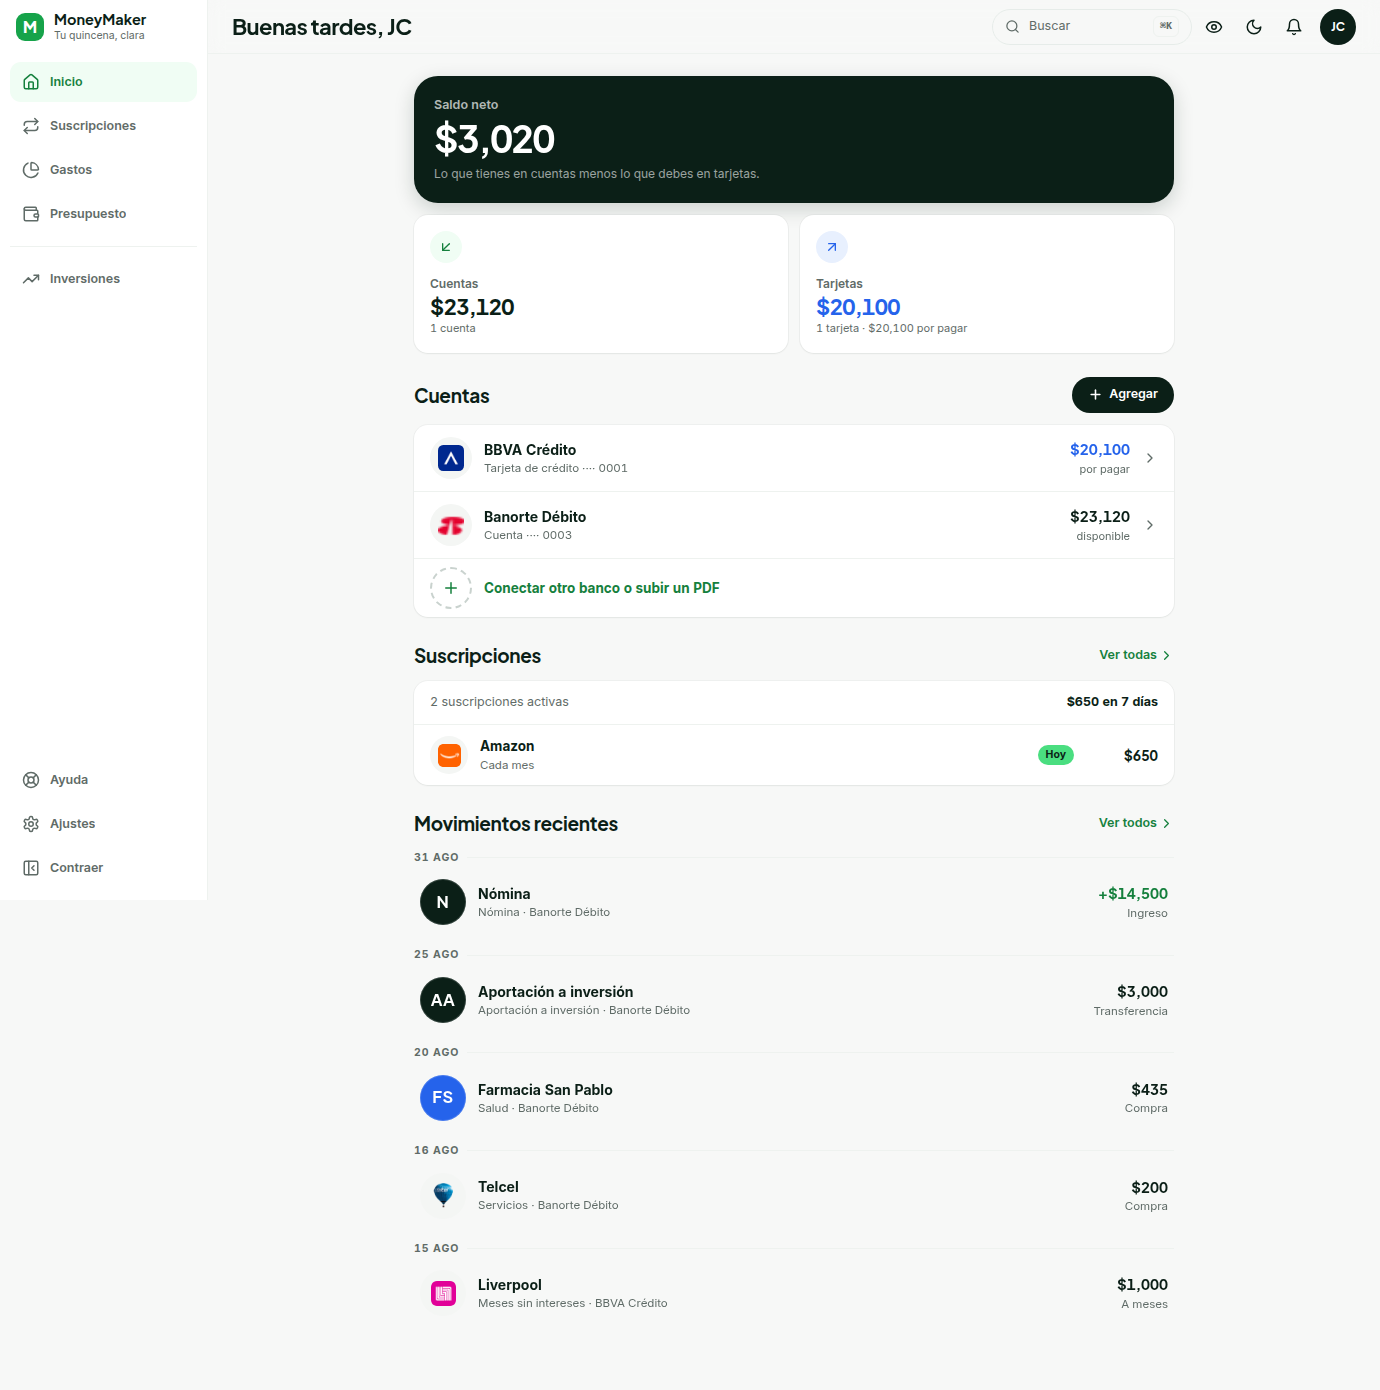
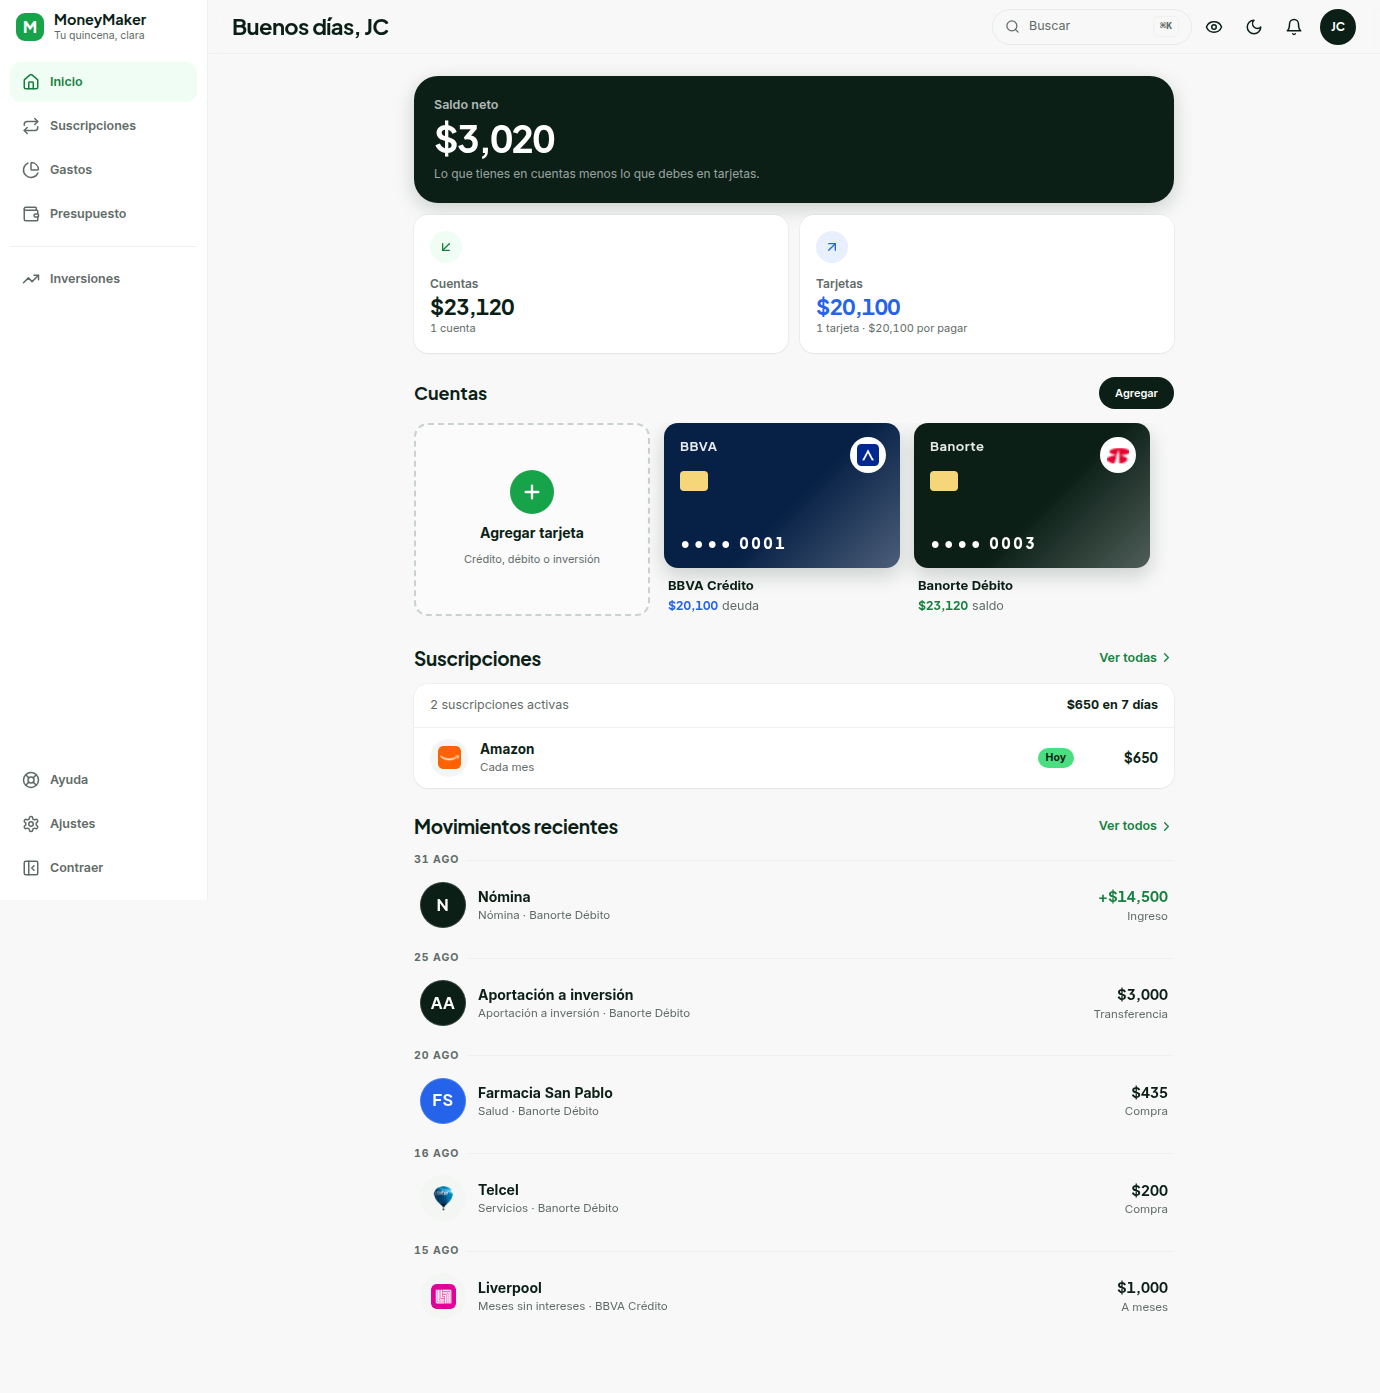
Inicio con tarjetas de cuentas, Suscripciones con sus tablas y widget de Belvo sin filtros
- Inicio recupera las tarjetas de cuentas (plásticos) que JC pidió de vuelta; fuera la lista
- Suscripciones recupera las tablas oscuras por grupo
- Widget de Belvo sin institution_types ni institutions: con lista explícita saltaba directo a IMSS pidiendo CURP; sin filtros muestra su lista y el usuario entra con las claves de su banco en la ventana de Belvo
- Nota en TABLERO y paso 5h en el prompt de Cowork (sandbox, credenciales de prueba, acotar instituciones desde el dashboard de Belvo)

Claude-Session: https://claude.ai/code/session_01L3kj8yPj5MbcrQ9TZw12Hz

diff --git a/src/components/fijos/TablasRecurrentes.tsx b/src/components/fijos/TablasRecurrentes.tsx
@@ -1,9 +1,9 @@
 'use client';
 
 import { useEffect, useRef } from 'react';
-import { cn } from '@/lib/cn';
-import { money, fechaCorta } from '@/lib/format';
+import { money } from '@/lib/format';
 import { costoMensual, proximoCobro } from '@/lib/domain/recurrentes';
+import { fechaCorta } from '@/lib/format';
 import type { Recurrente } from '@/lib/domain/tipos';
 import { Avatar } from '@/components/ui/Avatar';
 
@@ -15,58 +15,43 @@ const GRUPOS: { id: string; titulo: string; filtro: (r: Recurrente) => boolean }
   { id: 'otros', titulo: 'Otros fijos', filtro: (r) => r.tipo === 'otro' },
 ];
 
-const CICLO: Record<string, string> = { mensual: 'Cada mes', anual: 'Cada año', semanal: 'Cada semana', quincenal: 'Cada quincena' };
-
-function badge(dias: number): { texto: string; fuerte: boolean } {
-  if (dias <= 0) return { texto: 'Hoy', fuerte: true };
-  if (dias === 1) return { texto: 'Mañana', fuerte: true };
-  if (dias <= 7) return { texto: `En ${dias} días`, fuerte: false };
-  return { texto: '', fuerte: false };
-}
-
-/** Lista vertical por grupo (como una app de recordatorios): logo, nombre, ciclo y próximo cobro, badge y monto. */
 export function TablasRecurrentes({ recurrentes, onAbrir, seccionInicial }: { recurrentes: Recurrente[]; onAbrir: (id: string) => void; seccionInicial?: string }) {
-  const refs = useRef<Record<string, HTMLElement | null>>({});
+  const refs = useRef<Record<string, HTMLDivElement | null>>({});
   useEffect(() => {
-    if (seccionInicial && refs.current[seccionInicial]) refs.current[seccionInicial]!.scrollIntoView({ behavior: 'smooth', block: 'start' });
+    if (seccionInicial && refs.current[seccionInicial]) refs.current[seccionInicial]!.scrollIntoView({ behavior: 'smooth', block: 'nearest', inline: 'start' });
   }, [seccionInicial]);
-  const hoy = Date.now();
 
   return (
-    <div className="grid min-w-0 gap-5 xl:grid-cols-2">
+    <div className="snap-x-carousel -mx-3.5 px-3.5 md:mx-0 md:px-0 xl:grid xl:grid-cols-4 xl:gap-3.5">
       {GRUPOS.map((g) => {
-        const lista = recurrentes.filter(g.filtro).sort((a, b) => proximoCobro(a).getTime() - proximoCobro(b).getTime());
+        const lista = recurrentes.filter(g.filtro).sort((a, b) => (a.diaCobro ?? 0) - (b.diaCobro ?? 0));
         if (!lista.length) return null;
         const total = lista.reduce((s, r) => s + (r.tipo === 'msi' ? r.monto : costoMensual(r)), 0);
         return (
-          <section key={g.id} ref={(el) => { refs.current[g.id] = el; }} className="min-w-0 space-y-2.5">
-            <div className="flex min-w-0 items-baseline justify-between gap-2">
-              <h2 className="font-display text-[19px] font-bold tracking-[-0.3px]">{g.titulo}</h2>
-              <div className="flex-none whitespace-nowrap text-[12.5px] text-txt-2 dark:text-fg-2"><b className="font-display text-[15px] text-fg">{money(total)}</b> al mes</div>
+          <div key={g.id} ref={(el) => { refs.current[g.id] = el; }} className="w-[330px] rounded-16 bg-ink text-white shadow-dark xl:w-auto">
+            <div className="flex items-baseline justify-between px-4 pb-2 pt-4">
+              <div className="text-[13.3px] font-bold">{g.titulo}</div>
+              <div className="font-display text-[19px] font-bold">{money(total)}<span className="ml-1 text-[11px] font-normal text-white/60">/mes</span></div>
             </div>
-            <ul className="card divide-y divide-edge overflow-hidden p-0">
-              {lista.map((r, i) => {
-                const proximo = proximoCobro(r);
-                const dias = Math.round((proximo.getTime() - hoy) / 86_400_000);
-                const b = badge(dias);
-                return (
-                  <li key={r.id} className={cn(i < 8 && 'animate-rise')} style={i < 8 ? { animationDelay: `${i * 40}ms` } : undefined}>
-                    <button type="button" onClick={() => onAbrir(r.id)} className="flex h-[64px] w-full items-center gap-3 px-4 text-left transition-colors hover:bg-bg-hover dark:hover:bg-surface-2">
-                      <Avatar domain={r.comercioDominio} nombre={r.nombre} size={40} logoPct={60} />
-                      <div className="min-w-0 flex-1">
-                        <div className="truncate text-[14px] font-bold">{r.nombre}{r.veces === 1 && r.tipo === 'suscripcion' ? <span className="ml-1.5 rounded-pill bg-green-50 px-1.5 py-0.5 text-[10px] font-bold text-green-dark dark:bg-surface-2 dark:text-green-light">Nueva</span> : null}</div>
-                        <div className="truncate text-[11.5px] text-txt-2 dark:text-fg-2">
-                          {r.tipo === 'msi' && r.msiCuotasTotal ? `Cuota ${r.msiCuotasPagadas ?? 0} de ${r.msiCuotasTotal}` : CICLO[r.frecuencia] ?? 'Cada mes'} · próximo {fechaCorta(proximo)}
-                        </div>
+            <ul className="max-h-[264px] overflow-y-auto px-2 pb-2">
+              {lista.map((r) => (
+                <li key={r.id}>
+                  <button type="button" onClick={() => onAbrir(r.id)} className="flex h-[56px] w-full items-center gap-3 rounded-input px-2 text-left transition-colors hover:bg-white/8">
+                    <Avatar domain={r.comercioDominio} nombre={r.nombre} size={38} bg="rgba(255,255,255,0.12)" className="text-white" />
+                    <div className="min-w-0 flex-1">
+                      <div className="truncate text-[13px] font-bold">{r.nombre}</div>
+                      <div className="text-[11px] text-white/60">
+                        {r.tipo === 'msi' && r.msiCuotasTotal ? `Cuota ${r.msiCuotasPagadas ?? 0} de ${r.msiCuotasTotal} · ` : ''}
+                        {`próximo ${fechaCorta(proximoCobro(r))}`}
+                        {r.veces === 1 && r.tipo === 'suscripcion' ? ' · nueva' : ''}
                       </div>
-                      {b.texto && <span className={cn('rounded-pill px-2 py-0.5 text-[10.5px] font-bold', b.fuerte ? 'bg-green-light text-ink' : 'bg-bg-muted text-txt-2 dark:bg-surface-2 dark:text-fg-2')}>{b.texto}</span>}
-                      <span className="w-[76px] text-right font-display text-[14.5px] font-bold">{money(r.monto)}</span>
-                    </button>
-                  </li>
-                );
-              })}
+                    </div>
+                    <div className="font-display text-[14px] font-bold">{money(r.monto)}</div>
+                  </button>
+                </li>
+              ))}
             </ul>
-          </section>
+          </div>
         );
       })}
     </div>

diff --git a/src/components/inicio/Inicio.tsx b/src/components/inicio/Inicio.tsx
@@ -5,7 +5,7 @@ import Link from 'next/link';
 import { Home, AlertTriangle } from 'lucide-react';
 import type { DatosInicio } from './tipos';
 import { ResumenInicio } from './ResumenInicio';
-import { CuentasLista } from './CuentasLista';
+import { Cuentas } from './Cuentas';
 import { SuscripcionesProximas } from './SuscripcionesProximas';
 import { DrawerCuenta } from './DrawerCuenta';
 import { Historial } from '@/components/movimientos/Historial';
@@ -13,7 +13,7 @@ import { HojaAgregarCuenta } from '@/components/cuentas/HojaAgregarCuenta';
 import { EmptyState } from '@/components/ui/EmptyState';
 import { TEXTOS } from '@/lib/textos';
 
-/** Inicio: saldo neto, cuentas vinculadas, suscripciones próximas y movimientos recientes. Nada más. */
+/** Inicio: saldo neto, tarjetas de cuentas (plásticos), suscripciones próximas y movimientos recientes. */
 export function Inicio({ datos, cuentaInicial }: { datos: DatosInicio; cuentaInicial?: string | null }) {
   const [cuentaSel, setCuentaSel] = useState<string | null>(cuentaInicial && datos.cuentas.some((c) => c.id === cuentaInicial) ? cuentaInicial : null);
   const [agregarAbierto, setAgregarAbierto] = useState(false);
@@ -32,7 +32,7 @@ export function Inicio({ datos, cuentaInicial }: { datos: DatosInicio; cuentaIni
         </Link>
       )}
       {hayCuentas ? <ResumenInicio cuentas={datos.cuentas} /> : <EmptyState icon={Home} titulo={vacio.titulo} texto={vacio.texto} cta={{ label: vacio.cta, onClick: () => setAgregarAbierto(true) }} />}
-      <CuentasLista cuentas={datos.cuentas} fuentes={datos.fuentes} onAbrir={setCuentaSel} onAgregar={() => setAgregarAbierto(true)} />
+      <Cuentas cuentas={datos.cuentas} onAbrir={setCuentaSel} onAgregar={() => setAgregarAbierto(true)} />
       {hayCuentas && <SuscripcionesProximas recurrentes={datos.recurrentes} hoy={datos.hoy} />}
       {hayCuentas && <Historial movimientos={datos.movimientos} cuentas={datos.cuentas} hoy={datos.hoy} titulo="Movimientos recientes" simple inicial={5} verTodosHref="/app/gastos" />}
 

diff --git a/src/components/cuentas/belvoWidget.ts b/src/components/cuentas/belvoWidget.ts
@@ -74,8 +74,8 @@ export async function abrirWidgetBelvo({ institucion, instituciones, onSuccess, 
       },
     };
     if (institucion) config.institution = institucion;
-    // Solo bancos y fintech: la lista viene de nuestra API (tipo bank/fintech), así el widget no ofrece SAT ni IMSS.
-    // Sin lista (p. ej. si la API no respondió) el widget muestra la suya completa, que siempre funciona.
+    // Lista permitida (solo si quien llama la manda). Hoy no se manda: con `institutions` el widget de sandbox saltó
+    // directo a IMSS con CURP, y con `institution_types` quedó vacío. Sin filtros muestra su lista completa y funciona.
     if (instituciones && instituciones.length) config.institutions = instituciones;
     window.belvoSDK.createWidget(cuerpo.access, config).build();
     onEstado?.('');

diff --git a/src/components/cuentas/ModalBancos.tsx b/src/components/cuentas/ModalBancos.tsx
@@ -49,7 +49,6 @@ export function ModalBancos({ open, onClose, instituciones, agregador, sandbox, 
       const preseleccion = inst.origen === 'belvo' && !sandbox ? inst.id : undefined;
       abrirWidgetBelvo({
         institucion: preseleccion,
-        instituciones: instituciones.filter((i) => i.origen === 'belvo').map((i) => i.id),
         onEstado: setEstado,
         onSuccess: (link, institution) => {
           setEstado('');

diff --git a/docs/PROMPTS-MAESTROS.md b/docs/PROMPTS-MAESTROS.md
@@ -110,6 +110,11 @@ No escribas llaves ni tokens en el chat. No cambies código.
 5g. Respaldo diario: en Supabase → Project Settings → Database copia la cadena de conexión (URI, con tu contraseña) y
    guárdala como secreto del repo en GitHub (Settings → Secrets → Actions) con el nombre SUPABASE_DB_URL. El workflow
    "Respaldo" guarda un volcado cifrado cada noche durante 30 días.
+5h. Widget de Belvo: mientras esté en sandbox, la lista muestra instituciones de prueba (Erebor, Gringotts…, más IMSS y
+   SAT). Para conectar una cuenta de prueba elige un banco de prueba y usa usuario `bnk100` y contraseña `full`. En
+   dashboard.belvo.com → Widget puedes acotar qué instituciones se muestran (deja solo bancos); es la forma segura de
+   ocultar IMSS y SAT. Con llaves de producción la lista son los bancos reales de México y el usuario escribe en la
+   ventana de Belvo el usuario y la contraseña de su banca en línea (nunca en MoneyMaker).
 6. Opcional pero útil: crea un client id gratuito en brandfetch.com/developers y guárdalo como secreto del repo
    en GitHub (Settings → Secrets → Actions) con el nombre BRANDFETCH_CLIENT_ID. Vuelve a correr el workflow "Logos".
 7. Prueba de usuario real: entra a https://money-maker-tawny.vercel.app/app/ajustes → Cuentas conectadas →
